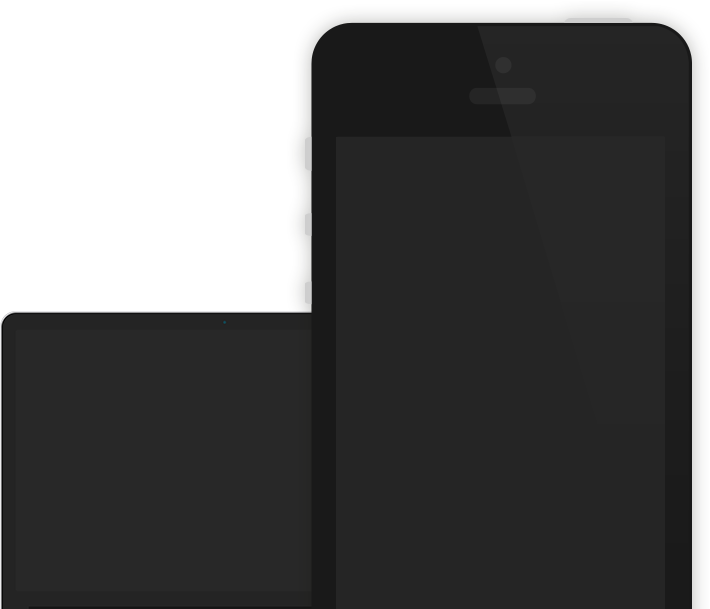
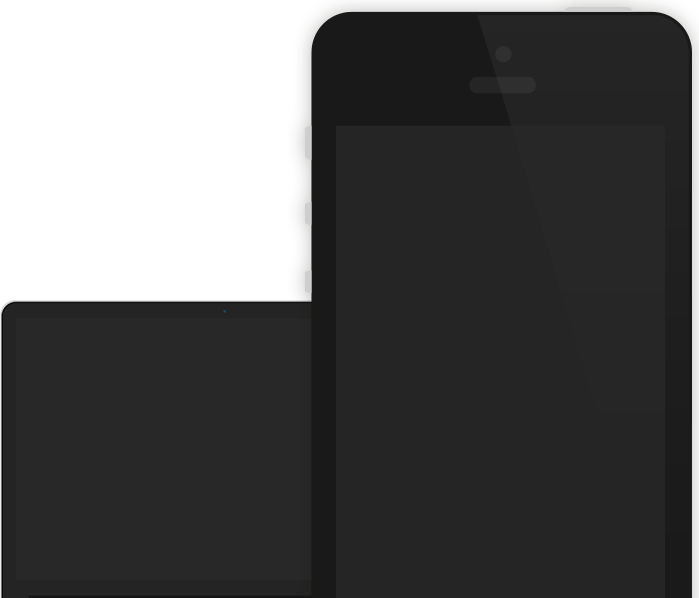
Serviços
Alteração na section

Changed region(s): [[0.4506, 0.0, 1.0, 1.0], [0.0, 0.0602, 0.4506, 0.5418]]

diff --git a/Projeto 03 - Portifólio/css/style.css b/Projeto 03 - Portifólio/css/style.css
@@ -11,7 +11,7 @@ html, body{
 /** Classes Auxiliares **/
 .clear{clear: both;}
 .center{
-    max-width: 1280;
+    max-width: 1280px;
     margin: 0 auto;
 }
 
@@ -21,7 +21,7 @@ html, body{
 header{
     width: 100%;
     height: 90vh;
-    /*max-height: 800px;*/
+    max-height: 800px;
     background-image: url(../Images/capa.png);
     background-position:center;
     background-size: cover;
@@ -72,39 +72,29 @@ header .call-1 p{
 
 section.services{
     background-color: #472562;
-    height: 400px;
 }
 section.services .center{
-    max-width: 750px;
+    width: 1024px;
+    background-color: blue;
+    display: flex;
 }
-section.services .text-service{
+
+/*Text-Service*/
+    .text-service{
+        width: 50%;
+        background-color: green;
+        display: inline-block;
+    }
+/*Device*/
+
+section.services .device{
     width: 50%;
-    float: left;
-}
-section.services .text-service h2{
-    color: white;
-    font-weight: lighter;
-    margin-bottom: 10px;
-}
-section.services .text-service p{
-    color: white;
-    font-weight: lighter;
-}
-section.services .text-service ul{list-style-position: inside;}
-section.services .text-service li{
-    color: white;
-    margin-top: 5px;
-    font-size: 15px;
-}
-section.services .btcta{
-    cursor: pointer;
-    width: 165px;
-    height: 45px;
-    line-height: 45px;
-    text-align: center;
-    color: white;
-    font-size: 13px;
-    background-color: #FF703D;
-    border-radius: 30px;
-    margin-top: 30px;
+    height: 430px;
+    position: relative;
+    top: -30px;
+    background-image: url(../Images/device.png);
+    background-position: center;
+    background-size: 100% 100%;
+    background-repeat: no-repeat;
+    display: inline-block;
 }

diff --git a/Projeto 03 - Portifólio/index.html b/Projeto 03 - Portifólio/index.html
@@ -43,9 +43,10 @@
                     <li>Lojas Virtuais</li>
                     <li>Sistemas</li>
                 </ul>
+                <div class="btcta">Entre em contato</div><!--BTCTA-->
             </div><!--Text-Service-->
-            <div class="clear"></div>
-            <div class="btcta">Entre em contato</div><!--BTCTA-->
+
+            <div class="device"></div><!--Device-->
         </div><!--Center-->
     </section><!--Services-->
 </body>
